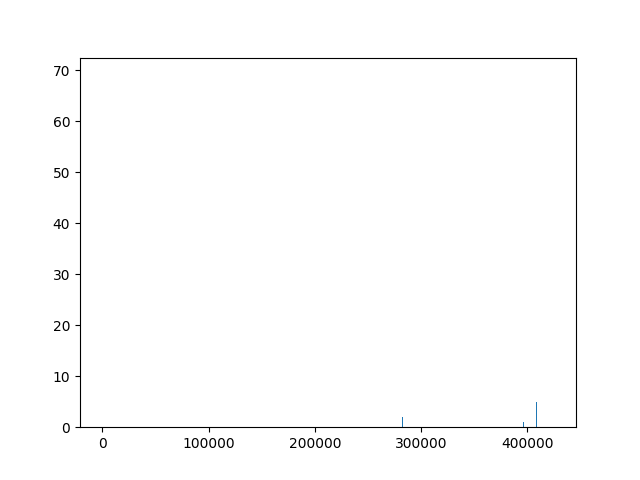
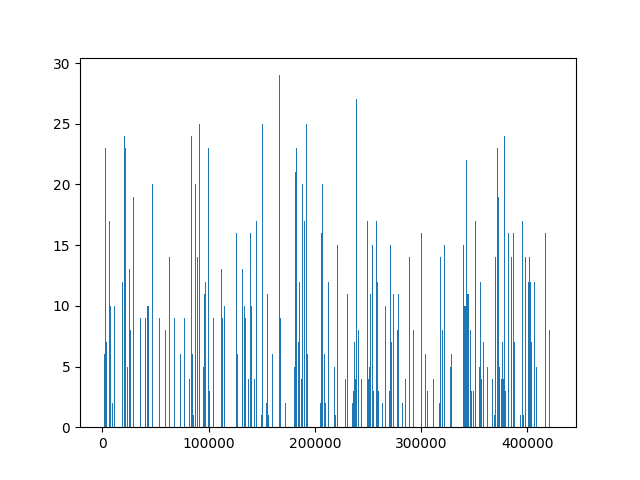
data

diff --git a/Mega.py b/Mega.py
@@ -1,0 +1,280 @@
+import sys
+import json
+from pyspark import SparkContext
+from pyspark.sql import SQLContext
+sc = SparkContext()
+sqlContext = SQLContext(sc)
+import matplotlib
+matplotlib.use('Agg') 
+import matplotlib.pyplot as plt
+
+from pyspark.sql.functions import mean, min, max
+import numpy as np
+
+
+data = {}
+
+
+orders = sqlContext.read.format("csv")\
+  .option("header","true")\
+  .option("inferSchema", "true")\
+  .load("instacart_2017_05_01/orders.csv")
+
+products = sqlContext.read.format("csv")\
+  .option("header","true")\
+  .option("inferSchema", "true")\
+  .load("instacart_2017_05_01/products.csv")
+  
+aisles = sqlContext.read.format("csv")\
+  .option("header","true")\
+  .option("inferSchema", "true")\
+  .load("instacart_2017_05_01/aisles.csv")
+
+departments = sqlContext.read.format("csv")\
+  .option("header","true")\
+  .option("inferSchema", "true")\
+  .load("instacart_2017_05_01/departments.csv")
+  
+order_products__train = sqlContext.read.format("csv")\
+  .option("header","true")\
+  .option("inferSchema", "true")\
+  .load("instacart_2017_05_01/order_products__train.csv")
+
+order_products__prior = sqlContext.read.format("csv")\
+  .option("header","true")\
+  .option("inferSchema", "true")\
+  .load("instacart_2017_05_01/order_products__prior.csv")
+
+
+#TASK 1.a
+print("# of columns = ", len(orders.columns))
+
+#number of orders
+print("number of orders = ", orders.count())
+
+#number of orders
+print("number of products = ", products.count())
+
+print(orders)
+#>>> df = df.dropDuplicates()
+users = orders.select("user_id").dropDuplicates()
+print("number of users =  ", users.count())
+
+#206209 diff users in the datasets 
+#order_products__train.select("order_id").filter(order_products__train.order_id == "1").show()
+#order_products__prior.select("order_id").filter(order_products__prior.order_id == "1").show()
+
+#TASK 1.b
+#order_products__prior.show()
+
+order_products = order_products__prior.union(order_products__train)
+
+#print("number of columns of order_products =  ", order_products.count())
+
+order_products = order_products.select("order_id","product_id")
+print("number of orders =  ", order_products.select("order_id").dropDuplicates().count())
+
+#num_products=order_products.groupby('order_id').count()
+#num_products.show()
+
+#order_products.select("order_id","product id")
+#print("number of orders =  ", order_products.select("order_id").dropDuplicates().count())
+
+num_products=order_products.groupby('order_id').count()
+num_products.show()
+x = num_products.select("order_id").take(2000)
+x = np.array([item for sublist in x for item in sublist])
+y = num_products.select("count").take(2000)
+y = np.array([item for sublist in y for item in sublist])
+
+ynew = []
+xnew = []
+for i,j in enumerate(y):
+    if j < 30:
+        ynew.append(j)
+        xnew.append(x[i])
+
+fig = plt.figure(1)
+plt.bar(xnew,ynew,100)
+
+fig.savefig("./hackathondata/task1b.png")
+data["x"] = list(x)
+data["y"] = list(y)
+with open('data.txt', 'w') as outfile:
+    json.dump(data, outfile)
+#TASK 1.c
+#orders.show()
+#order_products join orders sto order_id
+user_ave=orders.groupby('user_id').count()
+# counting works good
+#user_ave.select("count").filter(user_ave.user_id=="1").show()
+
+import pyspark.sql.functions as func
+
+
+a = num_products.join(orders, num_products.order_id == orders.order_id).groupby("user_id").avg("count")
+b = a.take(1000)
+b = np.array([item for sublist in b for item in sublist])
+fig = plt.figure()
+
+bnew = []
+for i in b:
+    if i < 50:
+        bnew.append(i) 
+plt.hist(bnew, bins=100)
+fig.savefig("./hackathondata/task1c")
+data["b"] = list(b)
+
+
+#join(department, people("deptId") === department("id")
+#from pyspark.sql.functions import col
+#df1.alias('a').join(df2.alias('b'),col('b.id') == col('a.id')).select([col('a.'+xx) for xx in a.columns] + [col('b.other1'),col('b.other2')])
+with open('data.txt', 'w') as outfile:
+    json.dump(data, outfile)
+
+
+#Task 1.d
+from pyspark.sql.types import DoubleType
+from pyspark.sql.functions import col
+from pyspark.sql.functions import desc
+from pyspark.sql.functions import asc
+
+
+#users = orders.select("user_id").dropDuplicates()
+#products.show()
+
+#separate_products=products.select("product_id").dropDuplicates()
+products_times=order_products.groupby('product_id').count()
+products_times.show()
+
+#products_times.select("product_id","count").orderBy((products_times.count).desc())
+
+best = products_times.selectExpr("product_id","count as siz").sort(desc("count")).take(10)
+x = []
+y = []
+for i in best:
+    x.append(i.product_id)
+    y.append(i.siz)
+
+print(x,y)
+
+fig = plt.figure()
+
+xmnew = []
+for i in x:
+    xmnew.append(str(i))
+plt.bar(xmnew,y,0.5)
+
+fig.savefig("./hackathondata/task1d")
+
+data["xm"] = x
+data["ym"] = y
+with open('data.txt', 'w') as outfile:
+    json.dump(data, outfile)
+
+
+#Task 1.e
+
+day = orders.select("order_dow").groupby("order_dow").count().sort(desc("count"))
+hour = orders.select("order_hour_of_day").groupby("order_hour_of_day").count().sort(desc("count"))
+
+h = hour.selectExpr("order_hour_of_day","count as siz").take(1000)
+d = day.selectExpr("order_dow", "count as siz").take(1000)
+
+xd = []
+yd = []
+xh = []
+yh = []
+for i in h:
+    xh.append(i.order_hour_of_day)
+    yh.append(i.siz)
+
+
+for i in d:
+    xd.append(i.order_dow)
+    yd.append(i.siz)
+
+fig = plt.figure()
+plt.bar(xd,yd,1)
+fig.savefig("./hackathondata/task1ed")
+
+fig = plt.figure()
+plt.bar(xh,yh,1)
+fig.savefig("./hackathondata/task1eh")
+
+data["xd"] = xd
+data["yd"] = yd
+data["xh"] = xh
+data["yh"] = yh
+with open('data.txt', 'w') as outfile:
+    json.dump(data, outfile)
+
+
+#Task 1.f
+
+
+
+#orders.sort(desc("days_since_prior_order")).show()
+#orders.select("user_id","count").select(groupby("days_since_prior_order").count()).sort(desc("count")).show()
+avge = orders.groupby("user_id").avg("days_since_prior_order")
+avge = avge.select("avg(days_since_prior_order)")
+avge = avge.collect()
+avge = [item for sublist in avge for item in sublist]
+
+
+data["avg"] = avge
+
+with open('data.txt', 'w') as outfile:
+    json.dump(data, outfile)
+
+fig = plt.figure(1)
+
+avnew = []
+for i in av:
+    if i <30 :
+        avnew.append(i)
+plt.hist(avge, bins = 200)
+fig.savefig("task1f")
+
+with open('data.txt', 'w') as outfile:
+    json.dump(data, outfile)
+#b = orders.groupby("user_id").values()
+#c = b.groupby("days_since_prior_order").where(b.user_id).count().show()
+
+
+# Task 2.a
+cord = orders.select("order_id","user_id")
+
+ordpr = order_products.select("order_id","product_id")
+f = ordpr.join(cord, "order_id")
+more = cord.groupby("user_id").count()
+larger = f.groupby("user_id").count()
+
+more = more.sort(asc("user_id"))
+more.show()
+mo = more.select("count")
+mo = mo.collect()
+
+larger = larger.sort(asc("user_id"))
+la = larger.select("count")
+la = la.collect()
+
+#A = more.join(larger, more.user_id == larger.user_id)
+#a =more.select("count")
+#a = more.collect()
+#a = np.array(a)
+#b = larger.select("count")
+#b = more.collect()
+#b = np.array(b)
+#
+
+
+
+from pyspark.mllib.stat import Statistics
+r1 = Statistics.corr(sc.parallelize(mo),sc.parallelize(la),method="pearson").head()
+print("Correlation\n" + str(r1))
+
+
+
+
+
